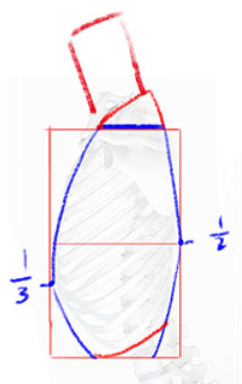
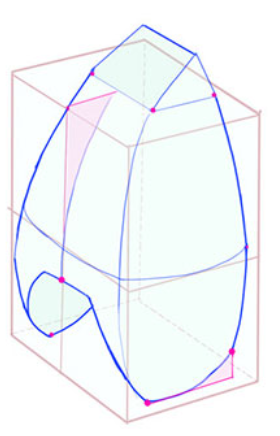
update

Changed region(s): [[0.0289, 0.0312, 0.9545, 1.0], [0.781, 0.9688, 0.8099, 1.0]]

diff --git a/source/_posts/tenten人体17期-Week2：基本骨架与关节球.md b/source/_posts/tenten人体17期-Week2：基本骨架与关节球.md
@@ -50,24 +50,38 @@ tags:
 <figcaption>胸腔形状</figcaption>
 </figure>
 
-具体来说：胸腔与方块的交点距离占方块的 $\frac{1}{2}$，颈部开口约占方块的 $\frac{1}{3}$，并高出方块上顶面约 $\frac{1}{5}$。开口高度方面，前侧约占方块高度的 $\frac{1}{3}$，后侧约占 $\frac{1}{4}$。因此从前面可以看到后面的开口，但从后面看不到前面。
+具体来说：胸腔与方块的交点距离占方块的 $\frac{1}{2}$，颈部开口约占方块的 $\frac{1}{3}$，并高出方块上顶面约 $\frac{1}{5}$。前面的几字形约占方块高度的 $\frac{1}{3}$，后面的约占 $\frac{1}{4}$，并且更宽一些。胸腔下缘尖角都在方块的 $\frac{1}{6}$。因此从前面可以看到后面的开口，但从后面看不到前面。
 
 <figure style="text-align: center;">
 <img src="/illustrations/tenten人体-Week2/7.png" alt="胸腔正面比例" width="35%">
 <figcaption>胸腔正面比例</figcaption>
 </figure>
 
+除此之外，要注意从后方看脊椎骨是凹陷的，前面则比较圆润。
+
+<div style="display: flex; justify-content: center;">
+<figure style="text-align: center;">
+<img src="/illustrations/tenten人体-Week2/8.png" alt="前面" style="height: 200px; width: auto;">
+<figcaption>前面</figcaption>
+</figure>
+
+<figure style="text-align: center;">
+<img src="/illustrations/tenten人体-Week2/9.png" alt="后面" style="height: 200px; width: auto;">
+<figcaption>后面</figcaption>
+</figure>
+</div>
+
 从侧面看，胸腔与方块的交点距离同样为方块尺寸的 $\frac{1}{2}$，但整体位置要更靠后。前侧凸起位于靠下 $\frac{1}{3}$ 处，后侧则在一半的位置。底部两个凸起大致都在 $\frac{1}{4}$ 的位置，其中前侧凸起与底面接触。顶面只需将两条轮廓线延长相交即可。整体轮廓近似一枚横躺的鸡蛋。
 
 <figure style="text-align: center;">
-<img src="/illustrations/tenten人体-Week2/8.png" alt="胸腔侧面比例" width="20%">
+<img src="/illustrations/tenten人体-Week2/10.png" alt="胸腔侧面比例" width="20%">
 <figcaption>胸腔侧面比例</figcaption>
 </figure>
 
 胸腔最重要的就是侧面形状，根据侧面形状作法线，再两边向外扩张一些就可以得到比较准确的外轮廓了。在此基础上，添加体积是非常容易的。
 
 <figure style="text-align: center;">
-<img src="/illustrations/tenten人体-Week2/9.png" alt="侧面形状" width="45%">
+<img src="/illustrations/tenten人体-Week2/11.png" alt="侧面形状" width="45%">
 <figcaption>侧面形状</figcaption>
 </figure>
 
